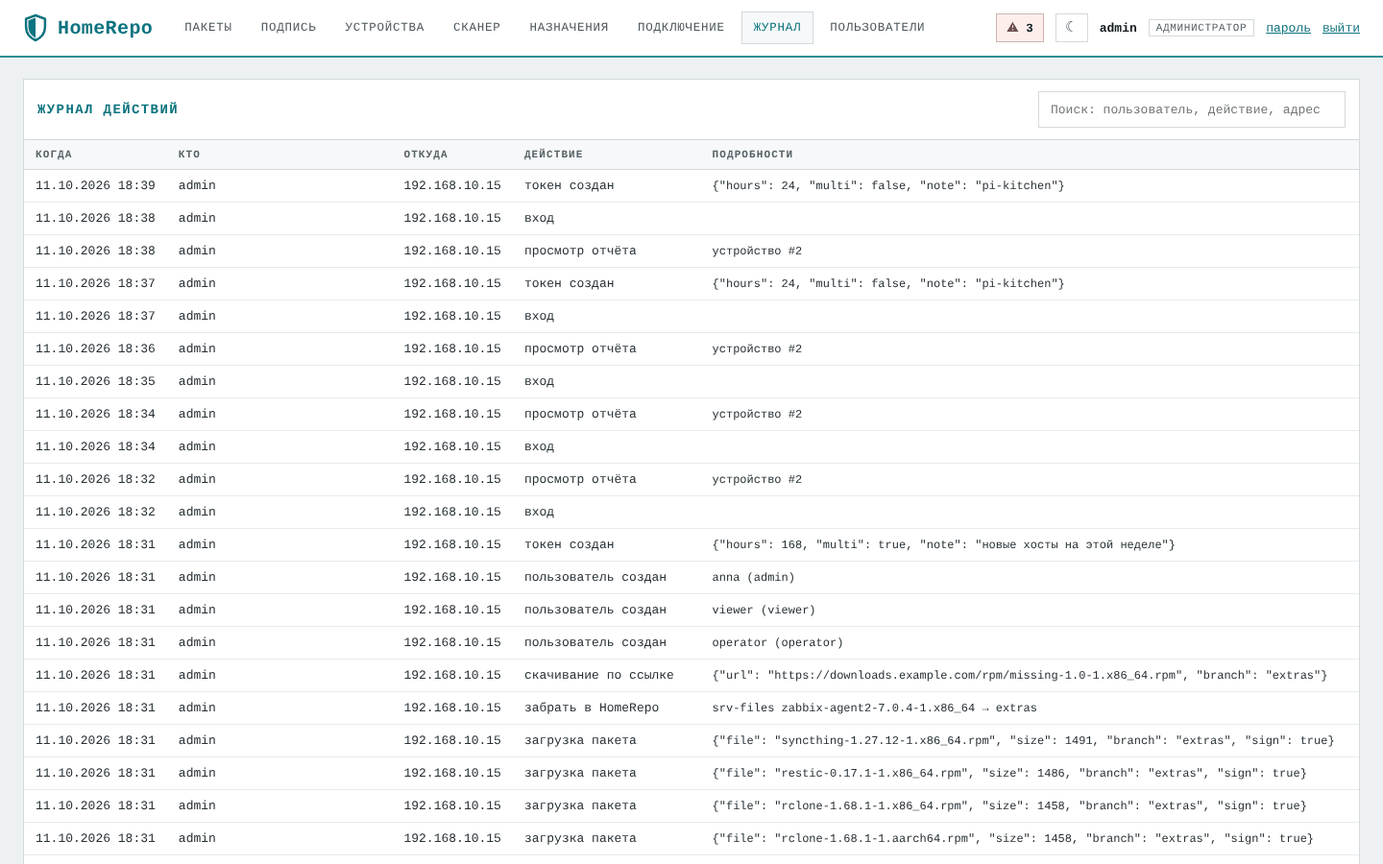
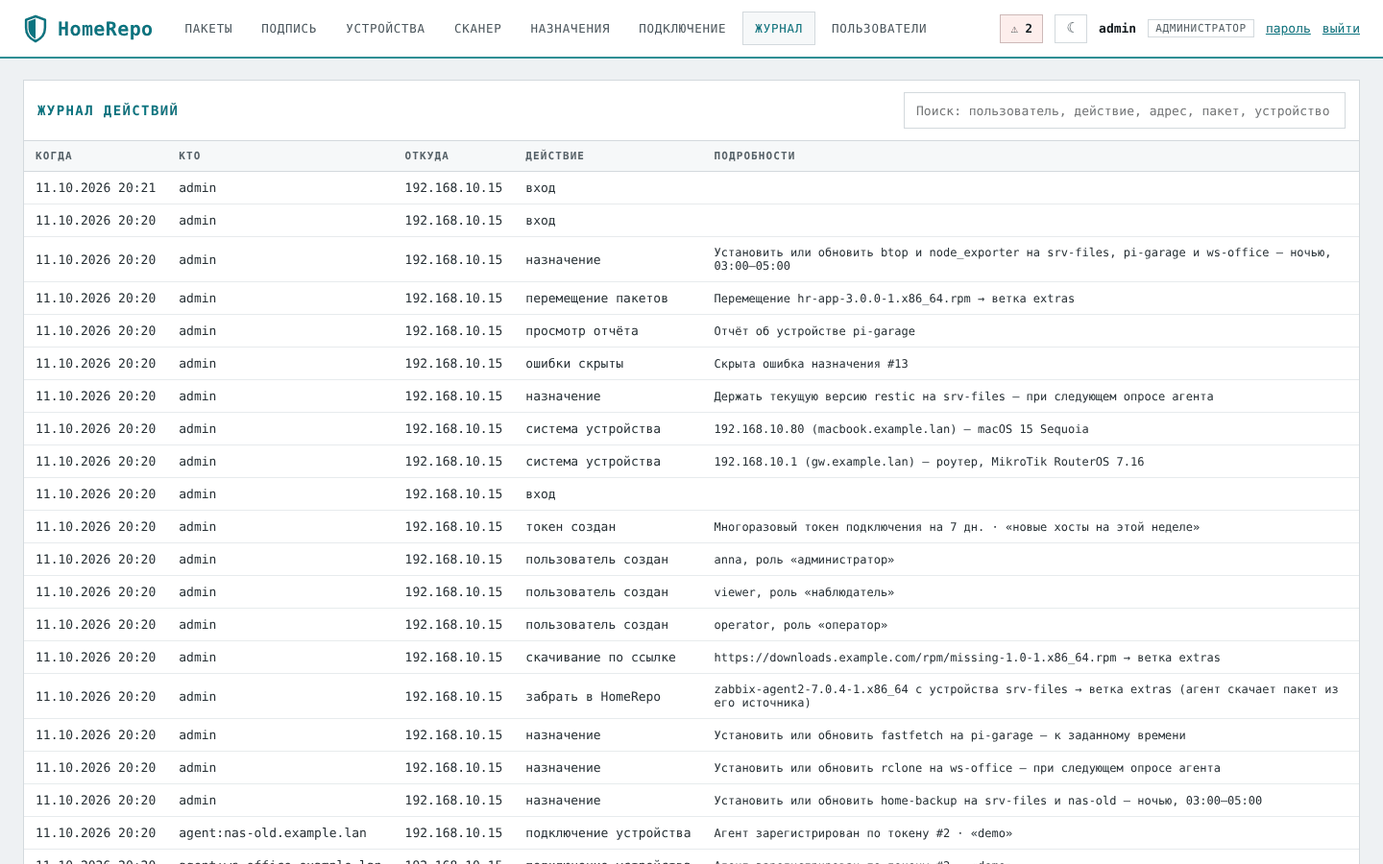
HomeRepo 2.2.2 — журнал действий человеческим языком

diff --git a/web/app.js b/web/app.js
@@ -1132,7 +1132,7 @@ async function vConnect(main) {
 const AUD_RU = {
   login: 'вход', login_failed: 'неудачный вход', logout: 'выход', password_changed: 'смена пароля', upload: 'загрузка пакета', fetch: 'скачивание по ссылке',
   package_resign: 'переподпись', resign_foreign: 'переподпись чужих', package_delete: 'удаление пакетов', package_move: 'перемещение пакетов',
-  repo_metadata: 'пересборка метаданных', repo_rescan: 'сканирование', repo_cleanup: 'очистка мусора', repo_key: 'проверка ключа', job_cancel: 'отмена задания',
+  repo_metadata: 'пересборка метаданных', repo_rescan: 'пересканирование репозитория', repo_cleanup: 'очистка мусора', repo_key: 'проверка ключа', job_cancel: 'отмена задания',
   assign: 'назначение', task_cancel: 'отмена назначения', task_retry: 'повтор назначения', collect: 'забрать в HomeRepo', collect_upload: 'пакет от агента',
   host_enroll: 'подключение устройства', host_delete: 'удаление устройства', token_create: 'токен создан', token_delete: 'токен удалён',
   report: 'просмотр отчёта', errors_ack: 'ошибки скрыты', job_retry: 'повтор задания', device_os: 'указана система устройства', scan: 'сканирование сети', scan_clear: 'очистка найденных', ssh_install_start: 'установка агента по SSH', ssh_install: 'результат установки по SSH', ssh_key_create: 'создан SSH-ключ панели',
@@ -1143,11 +1143,11 @@ async function vLog(main) {
   async function draw() {
     const r = await GET('/api/audit?limit=300&q=' + encodeURIComponent(q));
     const body = r.audit.map((a) => `<tr><td class="muted">${fmtDT(a.ts)}</td><td>${esc(a.user || '—')}</td><td class="muted">${esc(a.ip || '')}</td>
-      <td class="${a.action === 'login_failed' ? 'c-bad' : ''}">${esc(AUD_RU[a.action] || a.action)}</td><td class="wrap small">${esc(a.detail || '')}</td></tr>`).join('');
+      <td class="nowrap ${a.action === 'login_failed' ? 'c-bad' : ''}">${esc(a.label || AUD_RU[a.action] || a.action)}</td><td class="wrap small"${a.detail && a.detail !== a.text ? ` title="${esc(a.detail)}"` : ''}>${esc(a.text != null ? a.text : (a.detail || ''))}</td></tr>`).join('');
     $('#lb', main).innerHTML = body || '<tr><td colspan="5" class="empty">записей нет</td></tr>';
   }
   main.innerHTML = `<section class="panel"><div class="bar"><b style="font-size:14px;letter-spacing:.1em;color:var(--cyan)">ЖУРНАЛ ДЕЙСТВИЙ</b><div class="grow"></div>
-    <input class="inp" style="flex:0 1 320px" placeholder="Поиск: пользователь, действие, адрес" data-in="lq"></div>
+    <input class="inp" style="flex:0 1 460px" placeholder="Поиск: пользователь, действие, адрес, пакет, устройство" data-in="lq"></div>
     <div class="tblwrap"><table class="t"><thead><tr><th>Когда</th><th>Кто</th><th>Откуда</th><th>Действие</th><th>Подробности</th></tr></thead><tbody id="lb"></tbody></table></div></section>`;
   let t;
   S.on.lq = (el) => { clearTimeout(t); t = setTimeout(() => { q = el.value; draw().catch(fail); }, 300); };

diff --git a/lib/homerepo/auditfmt.py b/lib/homerepo/auditfmt.py
@@ -1,0 +1,251 @@
+"""Журнал действий человеческим языком.
+
+В базе запись хранится как есть (действие + подробности, иногда JSON), а при показе превращается в фразу.
+Так читаемыми становятся и старые записи, сделанные до появления этого модуля.
+"""
+
+import json
+import re
+
+LABELS = {
+    "login": "вход", "login_failed": "неудачный вход", "logout": "выход", "password_changed": "смена пароля",
+    "upload": "загрузка пакета", "fetch": "скачивание по ссылке",
+    "package_resign": "переподпись", "resign_foreign": "переподпись чужих", "package_delete": "удаление пакетов",
+    "package_move": "перемещение пакетов",
+    "repo_metadata": "пересборка метаданных", "repo_rescan": "пересканирование репозитория",
+    "repo_cleanup": "очистка мусора", "repo_key": "проверка ключа", "repo_add": "добавление пакетов",
+    "repo_resign": "переподпись",
+    "job_cancel": "отмена задания", "job_retry": "повтор задания",
+    "assign": "назначение", "task_cancel": "отмена назначения", "task_retry": "повтор назначения",
+    "collect": "забрать в HomeRepo", "collect_upload": "пакет от агента",
+    "host_enroll": "подключение устройства", "host_delete": "удаление устройства",
+    "token_create": "токен создан", "token_delete": "токен удалён",
+    "report": "просмотр отчёта", "errors_ack": "ошибки скрыты",
+    "device_os": "система устройства", "scan": "сканирование сети", "scan_clear": "очистка найденных",
+    "ssh_install_start": "установка агента по SSH", "ssh_install": "результат установки по SSH",
+    "ssh_key_create": "SSH-ключ панели",
+    "user_create": "пользователь создан", "user_delete": "пользователь удалён", "user_role": "смена роли",
+    "user_disable": "блокировка", "user_enable": "разблокировка", "user_reset_password": "сброс пароля",
+}
+
+TASK_ACT = {"install": "установить или обновить", "update": "обновить", "remove": "удалить",
+            "hold": "держать текущую версию", "unhold": "снять фиксацию версии", "collect": "забрать в HomeRepo"}
+SCHED = {"now": "при следующем опросе агента", "night": "ночью, 03:00–05:00", "at": "к заданному времени"}
+ROLES = {"viewer": "наблюдатель", "operator": "оператор", "admin": "администратор"}
+FAM = {"linux": "Linux", "windows": "Windows", "macos": "macOS", "router": "роутер", "nas": "NAS / хранилище",
+       "hypervisor": "гипервизор", "printer": "принтер", "phone": "телефон / планшет", "iot": "умное устройство",
+       "other": "другое"}
+REPO_OPS = {"metadata": "запущена пересборка метаданных всех веток",
+            "rescan": "запущено пересканирование каталога репозитория — поиск новых, изменённых и удалённых файлов",
+            "cleanup": "запущено удаление мусорных файлов из каталога репозитория",
+            "key": "запущена проверка ключа подписи"}
+
+
+def _cap(s):
+    return s[:1].upper() + s[1:] if s else s
+
+
+def _and(items, limit=8):
+    items = [str(x) for x in items if str(x)]
+    if len(items) > limit:
+        return ", ".join(items[:limit]) + " и ещё %d" % (len(items) - limit)
+    if len(items) <= 1:
+        return "".join(items)
+    return ", ".join(items[:-1]) + " и " + items[-1]
+
+
+def _size(n):
+    try:
+        n = float(n)
+    except (TypeError, ValueError):
+        return ""
+    for u in ("Б", "КБ", "МБ", "ГБ"):
+        if n < 1024 or u == "ГБ":
+            return ("%d %s" % (n, u)) if u == "Б" else ("%.1f %s" % (n, u)).replace(".", ",")
+        n /= 1024
+
+
+def _hours(h):
+    try:
+        h = int(h)
+    except (TypeError, ValueError):
+        return ""
+    if h % 24 == 0 and h >= 48:
+        return "%d дн." % (h // 24)
+    return "%d ч" % h
+
+
+def _json(detail):
+    s = (detail or "").strip()
+    if s[:1] in "{[":
+        try:
+            return json.loads(s)
+        except ValueError:
+            return None
+    return None
+
+
+def _assign(d):
+    act = TASK_ACT.get(d.get("action"), d.get("action") or "?")
+    by_pkg = {}
+    for item in d.get("created") or []:
+        host, _, pkg = str(item).partition(": ")
+        by_pkg.setdefault(pkg or host, []).append(host if pkg else "?")
+    if not by_pkg:
+        text = "%s — ничего не назначено" % _cap(act)
+    else:
+        groups = {}
+        for pkg, hosts in by_pkg.items():
+            groups.setdefault(tuple(hosts), []).append(pkg)
+        parts = ["%s на %s" % (_and(pkgs), _and(hosts)) for hosts, pkgs in groups.items()]
+        text = "%s %s" % (_cap(act), "; ".join(parts))
+    sched = SCHED.get(d.get("schedule"))
+    if sched and by_pkg:
+        text += " — " + sched
+    sk = d.get("skipped") or []
+    if sk:
+        text += ". Пропущено: " + "; ".join(str(x) for x in sk[:6]) + (" и ещё %d" % (len(sk) - 6) if len(sk) > 6 else "")
+    return text
+
+
+def _files(d, verb):
+    files = d.get("files") or []
+    text = "%s %s" % (verb, _and(files, 5)) if files else verb
+    if d.get("to"):
+        text += " → ветка %s" % d["to"]
+    return text
+
+
+def describe(action, detail, user="", ctx=None):
+    """Фраза для записи журнала. ctx: {"hosts": {id: имя}, "tokens": {id: заметка}, "discovered": {ip: имя}}."""
+    ctx = ctx or {}
+    detail = detail or ""
+    d = _json(detail)
+    try:
+        if action == "assign" and isinstance(d, dict):
+            return _assign(d)
+        if action == "errors_ack":
+            if isinstance(d, dict):
+                parts = []
+                n = len(d.get("tasks") or []) + len(d.get("jobs") or [])
+                if d.get("tasks"):
+                    parts.append(("назначения " if n == 1 else "назначений ") + ", ".join("#%s" % x for x in d["tasks"]))
+                if d.get("jobs"):
+                    parts.append(("задания службы подписи " if n == 1 else "заданий службы подписи ") + ", ".join("#%s" % x for x in d["jobs"]))
+                return ("Скрыта ошибка " if n == 1 else "Скрыты ошибки ") + "; ".join(parts) if parts else "Ошибки скрыты"
+            m = re.match(r"все: (\d+)", detail)
+            if m:
+                return "Скрыты все ошибки (%s)" % m.group(1)
+        if action == "token_create" and isinstance(d, dict):
+            text = "%s токен подключения на %s" % ("Многоразовый" if d.get("multi") else "Одноразовый", _hours(d.get("hours")))
+            if d.get("note"):
+                text += " · «%s»" % d["note"]
+            return text
+        if action == "token_delete":
+            m = re.match(r"#(\d+)", detail)
+            note = ctx.get("tokens", {}).get(int(m.group(1))) if m else None
+            return "Токен %s%s" % (detail, " · «%s»" % note if note else "")
+        if action in ("package_resign", "package_delete", "package_move") and isinstance(d, dict):
+            verb = {"package_resign": "Переподпись ключом HomeRepo:", "package_delete": "Удаление из репозитория:",
+                    "package_move": "Перемещение"}[action]
+            return _files(d, verb)
+        if action == "resign_foreign":
+            m = re.match(r"(\d+)", detail)
+            return "Переподпись ключом HomeRepo всех пакетов с чужой подписью или без подписи" + (" — %s шт." % m.group(1) if m else "")
+        if action == "upload":
+            if isinstance(d, dict):
+                text = "%s%s → ветка %s" % (d.get("file", "?"), " (%s)" % _size(d["size"]) if d.get("size") else "",
+                                            d.get("branch", "?"))
+                return text + (", с подписью ключом HomeRepo" if d.get("sign", True) else ", без переподписи")
+            return "%s — из командной строки, с подписью ключом HomeRepo" % detail
+        if action == "fetch" and isinstance(d, dict):
+            return "%s → ветка %s" % (d.get("url", "?"), d.get("branch", "?"))
+        if action.startswith("repo_") and action[5:] in REPO_OPS:
+            return _cap(REPO_OPS[action[5:]])
+        if action == "collect":
+            m = re.match(r"^(\S+) (\S+) → (\S+)$", detail)
+            if m:
+                return "%s с устройства %s → ветка %s (агент скачает пакет из его источника)" % (m.group(2), m.group(1), m.group(3))
+        if action == "collect_upload":
+            m = re.match(r"^(\S+) \(с (.+)\)$", detail)
+            if m:
+                return "Получен %s с устройства %s и передан службе подписи" % (m.group(1), m.group(2))
+        if action in ("task_cancel", "task_retry"):
+            m = re.match(r"^#(\d+) (\S+) (\w+) (.+)$", detail)
+            if m:
+                return "Назначение #%s: %s %s на %s" % (m.group(1), TASK_ACT.get(m.group(3), m.group(3)), m.group(4), m.group(2))
+        if action == "job_cancel":
+            m = re.match(r"^#(\d+) (.*)$", detail)
+            if m:
+                return "Задание #%s: %s" % (m.group(1), m.group(2))
+        if action == "job_retry":
+            m = re.match(r"^#(\d+) → #(\d+) (.*)$", detail)
+            if m:
+                return "Задание #%s запущено заново как #%s: %s" % m.groups()
+        if action == "report":
+            m = re.match(r"устройство #(\d+)", detail)
+            if m:
+                name = ctx.get("hosts", {}).get(int(m.group(1)))
+                return "Отчёт об устройстве %s" % (name or "#" + m.group(1))
+        if action == "device_os":
+            m = re.match(r"^(\S+): (.*)$", detail)
+            if m:
+                ip, rest = m.groups()
+                hn = ctx.get("discovered", {}).get(ip)
+                who = "%s (%s)" % (ip, hn) if hn else ip
+                if rest == "автоопределение":
+                    return "%s — тип системы снова определяется автоматически" % who
+                fam, _, name = rest.partition(" ")
+                fl = FAM.get(fam, fam)
+                if not name or name.lower() == fl.lower():
+                    return "%s — %s" % (who, fl)
+                if name.lower().startswith(fl.lower()):  # «macOS 15» вместо «macOS, macOS 15»
+                    return "%s — %s" % (who, name)
+                return "%s — %s, %s" % (who, fl, name)
+        if action == "scan":
+            m = re.match(r"^(\S+) (quick|full)$", detail)
+            if m:
+                return "Сеть %s, %s" % (m.group(1), "расширенная проверка портов" if m.group(2) == "full" else "быстрая проверка портов")
+        if action == "ssh_install_start":
+            m = re.match(r"^(\S+?)@(.+) \((password|key)\)$", detail)
+            if m:
+                return "Пользователь %s на %s, вход %s" % (m.group(1), m.group(2),
+                                                           "по паролю (пароль не сохраняется)" if m.group(3) == "password" else "ключом панели")
+        if action == "ssh_key_create":
+            return "Создан SSH-ключ панели для установки агентов без пароля"
+        if action == "scan_clear":
+            return "Список найденных сканером устройств очищен"
+        if action == "host_enroll":
+            m = re.match(r"токен #(\d+)", detail)
+            if m:
+                note = ctx.get("tokens", {}).get(int(m.group(1)))
+                return "Агент зарегистрирован по токену #%s%s" % (m.group(1), " · «%s»" % note if note else "")
+        if action == "host_delete":
+            return "Устройство %s удалено из панели" % detail
+        if action == "user_create":
+            m = re.match(r"^(\S+) \((\w+)\)$", detail)
+            if m:
+                return "%s, роль «%s»" % (m.group(1), ROLES.get(m.group(2), m.group(2)))
+        if action == "user_role":
+            m = re.match(r"^(\S+) → (\w+)$", detail)
+            if m:
+                return "%s: новая роль «%s»" % (m.group(1), ROLES.get(m.group(2), m.group(2)))
+        if action == "login_failed":
+            return "Неверное имя пользователя или пароль"
+    except Exception:  # noqa: BLE001 — журнал не должен ломаться из-за одной странной записи
+        pass
+    if isinstance(d, dict):  # неизвестная запись с JSON — хотя бы без скобок и кавычек
+        return "; ".join("%s: %s" % (k, ", ".join(map(str, v)) if isinstance(v, list) else v)
+                         for k, v in d.items() if v not in (None, "", [], {}))
+    return detail
+
+
+def context(con):
+    def q(sql):
+        try:
+            return con.execute(sql).fetchall()
+        except Exception:  # noqa: BLE001
+            return []
+    return {"hosts": {r[0]: r[1] for r in q("SELECT id, name FROM hosts")},
+            "tokens": {r[0]: r[1] for r in q("SELECT id, note FROM tokens") if r[1]},
+            "discovered": {r[0]: r[1] for r in q("SELECT ip, hostname FROM discovered") if r[1]}}

diff --git a/tests/test_auditfmt.py b/tests/test_auditfmt.py
@@ -1,0 +1,47 @@
+"""Журнал действий человеческим языком (вымышленные имена и адреса)."""
+import os
+import sys
+import unittest
+
+sys.path.insert(0, os.path.join(os.path.dirname(__file__), "..", "lib"))
+from homerepo.auditfmt import describe  # noqa: E402
+
+CTX = {"hosts": {2: "srv-files"}, "tokens": {8: "pi-garage"}, "discovered": {"192.168.10.1": "gw.example.lan"}}
+
+
+class AuditText(unittest.TestCase):
+    def d(self, action, detail):
+        return describe(action, detail, "admin", CTX)
+
+    def test_assign(self):
+        t = self.d("assign", '{"action": "install", "created": ["srv-files: btop", "pi-garage: btop"], '
+                             '"skipped": [], "schedule": "now"}')
+        self.assertEqual(t, "Установить или обновить btop на srv-files и pi-garage — при следующем опросе агента")
+        t = self.d("assign", '{"action": "hold", "created": ["a: x", "b: x", "a: y"], '
+                             '"skipped": ["c: x — нет сборки для aarch64"], "schedule": "night"}')
+        self.assertIn("Держать текущую версию x на a и b; y на a — ночью", t)
+        self.assertIn("Пропущено: c: x — нет сборки", t)
+        self.assertNotIn("{", t)
+
+    def test_misc(self):
+        self.assertEqual(self.d("errors_ack", '{"jobs": [], "tasks": [5]}'), "Скрыта ошибка назначения #5")
+        self.assertEqual(self.d("token_create", '{"hours": 168, "multi": true, "note": "лаборатория"}'),
+                         "Многоразовый токен подключения на 7 дн. · «лаборатория»")
+        self.assertEqual(self.d("report", "устройство #2"), "Отчёт об устройстве srv-files")
+        self.assertEqual(self.d("device_os", "192.168.10.1: router MikroTik RouterOS"),
+                         "192.168.10.1 (gw.example.lan) — роутер, MikroTik RouterOS")
+        self.assertEqual(self.d("device_os", "192.168.10.80: macos macOS"), "192.168.10.80 — macOS")
+        self.assertEqual(self.d("host_enroll", "токен #8"), "Агент зарегистрирован по токену #8 · «pi-garage»")
+        self.assertEqual(self.d("task_retry", "#5 srv-files collect tool"), "Назначение #5: забрать в HomeRepo tool на srv-files")
+        self.assertIn("1,4 КБ", self.d("upload", '{"file": "a.rpm", "size": 1433, "branch": "updates", "sign": true}'))
+        self.assertEqual(self.d("package_move", '{"files": ["a.rpm", "b.rpm"], "to": "updates"}'),
+                         "Перемещение a.rpm и b.rpm → ветка updates")
+
+    def test_unknown_and_broken(self):
+        self.assertEqual(self.d("something_new", '{"a": [1, 2], "b": null}'), "a: 1, 2")
+        self.assertEqual(self.d("assign", "{битый json"), "{битый json")
+        self.assertEqual(self.d("login", ""), "")
+
+
+if __name__ == "__main__":
+    unittest.main()

diff --git a/lib/homerepo/web.py b/lib/homerepo/web.py
@@ -1009,17 +1009,28 @@ def api_connect(req):
 # ====================================================================== журнал и пользователи
 @route("GET", "/api/audit")
 def api_audit(req):
+    from . import auditfmt
     con = C()
-    q = req.query.get("q", "").strip()
+    q = req.query.get("q", "").strip().lower()
     lim = min(int(req.query.get("limit", "200") or 200), 1000)
     off = int(req.query.get("offset", "0") or 0)
+    ctx = auditfmt.context(con)
+
+    def fmt(r):
+        r["label"] = auditfmt.LABELS.get(r["action"], r["action"])
+        r["text"] = auditfmt.describe(r["action"], r["detail"], r["user"], ctx)
+        return r
     if q:
-        like = "%" + q + "%"
-        rows = con.execute("SELECT * FROM audit WHERE user LIKE ? OR action LIKE ? OR detail LIKE ? OR ip LIKE ? "
-                           "ORDER BY id DESC LIMIT ? OFFSET ?", (like, like, like, like, lim, off))
+        # ищем и по исходной записи, и по её описанию человеческим языком
+        out = []
+        for r in db.rows(con.execute("SELECT * FROM audit ORDER BY id DESC LIMIT 20000")):
+            fmt(r)
+            if any(q in str(r.get(k) or "").lower() for k in ("user", "ip", "action", "label", "text", "detail")):
+                out.append(r)
+        rows = out[off:off + lim]
     else:
-        rows = con.execute("SELECT * FROM audit ORDER BY id DESC LIMIT ? OFFSET ?", (lim, off))
-    return jresp({"audit": db.rows(rows)})
+        rows = [fmt(r) for r in db.rows(con.execute("SELECT * FROM audit ORDER BY id DESC LIMIT ? OFFSET ?", (lim, off)))]
+    return jresp({"audit": rows})
 
 
 @route("GET", "/api/users", perm="admin")

diff --git a/lib/homerepo/reports.py b/lib/homerepo/reports.py
@@ -247,7 +247,13 @@ def _resp(doc, fn, req):
 @route("GET", r"/api/report/host/(\d+)\.html")
 def report_host(req, hid):
     doc, fn = host_html(web.C(), hid, full=bool(req.query.get("full")))
-    web.audit(req, "report", "устройство #%s" % hid)
+    # печать и скачивание открывают отчёт ещё раз — повторный просмотр в течение 10 минут не пишем
+    con = web.C()
+    det = "устройство #%s" % hid
+    last = con.execute("SELECT ts FROM audit WHERE user=? AND action='report' AND detail=? ORDER BY id DESC LIMIT 1",
+                       (req.uname, det)).fetchone()
+    if not last or time.time() - last[0] > 600:
+        web.audit(req, "report", det)
     return _resp(doc, fn, req)
 
 

diff --git a/lib/homerepo/__init__.py b/lib/homerepo/__init__.py
@@ -1,3 +1,3 @@
 """HomeRepo — домашний RPM-репозиторий с подписью пакетов и менеджером устройств."""
 
-VERSION = "2.2.1"
+VERSION = "2.2.2"

diff --git a/CHANGELOG.md b/CHANGELOG.md
@@ -1,5 +1,9 @@
 # Изменения
 
+## 2.2.2
+- Журнал действий человеческим языком: вместо JSON — фразы вроде «Установить или обновить btop на srv-files и pi-garage — при следующем опросе агента». Старые записи тоже показываются по-новому, исходная запись видна во всплывающей подсказке. Поиск работает и по этим фразам.
+- Повторное открытие одного и того же отчёта (печать, скачивание) в течение 10 минут больше не плодит записи в журнале.
+
 ## 2.2.1
 - Значок приложения (щит с пакетом) во всех размерах, favicon.ico, apple-touch-icon, maskable-значки и манифест веб-приложения: панель можно закрепить в Dock, на рабочем столе или на экране телефона.
 

diff --git a/docs/SCREENSHOTS.md b/docs/SCREENSHOTS.md
@@ -135,7 +135,7 @@ Raspberry Pi (aarch64) с датчиком температуры:
 
 ## 10. Журнал и пользователи
 
-Журнал всех действий: кто, когда, откуда и что сделал.
+Журнал всех действий: кто, когда, откуда и что сделал. Подробности записаны обычными фразами, например «Установить или обновить btop на srv-files, pi-garage и ws-office — ночью». Поиск работает по имени пакета, устройства, пользователя или по адресу.
 
 ![Журнал](img/log.png)
 
